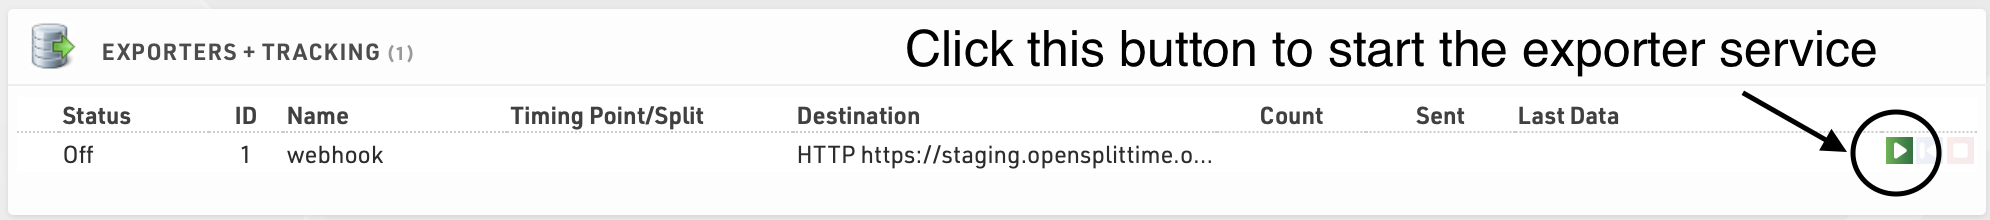
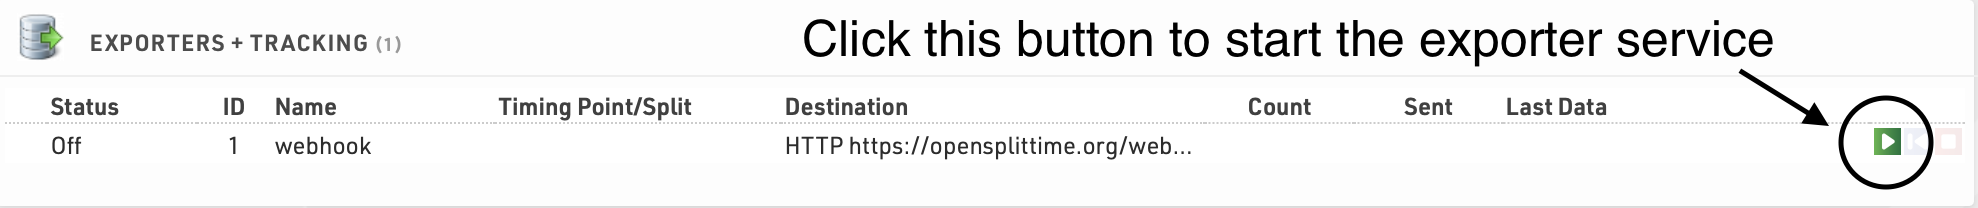
Update webhook setup documentation with correct endpoint URL and replace outdated images

diff --git a/docs/raceresult-integration/webhook-setup.md b/docs/raceresult-integration/webhook-setup.md
@@ -35,7 +35,7 @@ In the left panel, go to `Timing` → `Settings` → `Exporters + Tracking`. Add
 - **Name**: OST Webhook
 - **TimingPoint/Split**: <All Timing Points>
 - **Filter**: Leave as blank
-- **Destination**: HTTP(S) Post, then fill the next field with the following endpoint URL: `https://staging.opensplittime.org/webhooks/raceresult`
+- **Destination**: HTTP(S) Post, then fill the next field with the following endpoint URL: `https://opensplittime.org/webhooks/raceresult`
 - **Export Data**: Custom, then fill the next field with `[RD_RecordJSON] & ";" & [Event.Name]`
 - **LineEnd**: CRLF
 
